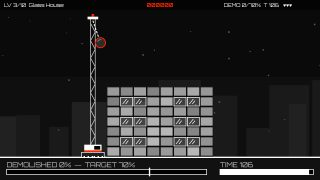
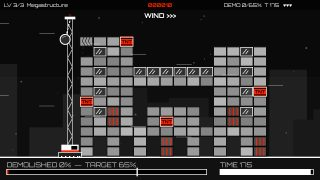
Give Wrecking Ball three levels and a controlled-demolition ending (ai3)
Twin Stacks, Arcade and Megastructure replace the ten sites; the finale keeps
the charges and gains both wind and tremors, with a slightly gentler target
and tremor rhythm. The seven unused structures are gone. Clearing it opens a
scene of two towers imploding into dust and coloured smoke. Node test, docs
and menu picture follow.

Claude-Session: https://claude.ai/code/session_016R86i3evNakTHXcnyVkEfD

diff --git a/internal/generator/templates/themes/brutalist/game.js b/internal/generator/templates/themes/brutalist/game.js
@@ -12,6 +12,10 @@
  * swing counts. Demolish the target share before time is up (every missed
  * deadline costs a life and buys a short overtime), and keep the cab out
  * from under what falls.
+ *
+ * Three sites: two plain concrete stacks to learn the swing, an arcade of
+ * lintels with rebar and glass, and the megastructure finale with charges,
+ * wind and tremors.
  */
 (function () {
     'use strict';
@@ -39,20 +43,16 @@
     // Ball damage is (impact speed - minV) / HIT_SCALE + base; a landing does
     // (landing speed / FALL_SCALE) * fall.
     var HIT_SCALE = 200, FALL_SCALE = 600;
-    // Timers are roughly twice what a practised player needs on the early
-    // levels and more generous from level 4 on, where rebar and fuses make a
-    // sloppy swing cost real time: they should bind for a newcomer, not
-    // for someone who needs three tries at a rebar stub. Running out costs
-    // a life and buys OVERTIME seconds, so a slow first attempt is not
-    // thrown away at once, and doing nothing still loses: the last life
-    // goes two overtimes after the deadline.
-    // tremor is the pause between two tremors in seconds, [min, max]: the
-    // megastructure shakes more often than the level that introduces them.
+    // Timers are roughly twice what a practised player needs, and more
+    // generous where rebar and fuses make a sloppy swing cost real time:
+    // they should bind for a newcomer, not for someone who needs three tries
+    // at a rebar stub. Running out costs a life and buys OVERTIME seconds, so
+    // a slow first attempt is not thrown away at once, and doing nothing
+    // still loses: the last life goes two overtimes after the deadline.
+    // tremor is the pause between two tremors in seconds, [min, max].
     var LEVELS = [
-        { time: 100, target: 0.6 }, { time: 100, target: 0.7 }, { time: 110, target: 0.7 },
-        { time: 150, target: 0.6 }, { time: 150, target: 0.65 }, { time: 170, target: 0.65 },
-        { time: 155, target: 0.6 }, { time: 160, target: 0.65, wind: true },
-        { time: 170, target: 0.65, tremor: [10, 13] }, { time: 180, target: 0.7, wind: true, tremor: [8, 11] }
+        { time: 100, target: 0.6 }, { time: 150, target: 0.65 },
+        { time: 180, target: 0.65, wind: true, tremor: [10, 13] }
     ];
     // A tremor announces itself TREMOR_WARN seconds ahead; the piece it
     // aims at the cab is lobbed higher (AIMED_VY) than the stray ones
@@ -72,26 +72,7 @@
         for (var r = r0; r < r0 + h; r++) for (var c = c0; c < c0 + w; c++) g[r][c] = kind;
     }
 
-    function buildWall(g) { fill(g, 9, 0, 5, 3, CONC); fill(g, 16, 0, 2, 2, CONC); }
-
     function buildStacks(g) { fill(g, 7, 0, 2, 7, CONC); fill(g, 11, 0, 1, 3, CONC); fill(g, 14, 0, 3, 8, CONC); }
-
-    // Concrete frame with glass infill on every other floor.
-    function buildGlassHouse(g) {
-        for (var r = 0; r < 7; r++) {
-            for (var c = 8; c < 16; c++) {
-                var pillar = c === 8 || c === 11 || c === 12 || c === 15;
-                g[r][c] = (r % 2 === 1 && !pillar) ? GLASS : CONC;
-            }
-        }
-    }
-
-    // The rebar stub in the middle is a wall the crane cannot pass: break
-    // it with a full swing, or work on the far half over its top.
-    function buildRebarCore(g) {
-        fill(g, 5, 0, 2, 4, CONC);
-        fill(g, 10, 0, 7, 7, CONC); fill(g, 13, 0, 1, 2, REBAR);
-    }
 
     // Pillars with doorways between them: the slab above only holds while
     // both of its ends are still standing.
@@ -100,46 +81,6 @@
         fill(g, 5, 2, 15, 1, CONC);
         for (c = 5; c <= 19; c++) fill(g, c, 3, 1, 2, (c - 5) % 2 === 1 ? GLASS : CONC);
         fill(g, 5, 5, 15, 1, CONC); fill(g, 9, 6, 7, 2, CONC); fill(g, 15, 6, 1, 2, REBAR);
-    }
-
-    // Rebar footings make the usual trick (take out the ground floor)
-    // useless; the charges on the faces are the way in.
-    function buildShortFuse(g) {
-        fill(g, 5, 0, 4, 8, CONC); fill(g, 5, 0, 4, 1, REBAR);
-        g[2][5] = CHARGE; g[5][8] = CHARGE;
-        fill(g, 13, 0, 6, 10, CONC); fill(g, 13, 0, 6, 1, REBAR);
-        fill(g, 13, 1, 1, 2, REBAR); fill(g, 18, 1, 1, 2, REBAR);
-        g[3][13] = CHARGE; g[6][18] = CHARGE; g[9][15] = CHARGE;
-    }
-
-    function buildSilos(g) {
-        [[5, 11], [11, 10], [17, 11]].forEach(function (t) {
-            fill(g, t[0], 0, 3, t[1], CONC);
-            fill(g, t[0], 5, 3, 1, REBAR);
-            fill(g, t[0], t[1] - 1, 3, 1, GLASS);
-        });
-        g[7][5] = CHARGE; g[2][11] = CHARGE; g[4][17] = CHARGE;
-    }
-
-    function buildZiggurat(g) {
-        for (var r = 0; r < 7; r++) {
-            for (var c = 6 + r; c <= 19 - r; c++) {
-                var edge = c === 6 + r || c === 19 - r, core = (c === 12 || c === 13) && r < 2;
-                g[r][c] = core ? REBAR : (r % 2 === 1 && edge ? GLASS : CONC);
-            }
-        }
-        g[2][8] = CHARGE; g[4][15] = CHARGE;
-    }
-
-    // A slab block riddled with window holes, with a rebar stub in the
-    // middle and a rebar end wall.
-    function buildCondemned(g) {
-        fill(g, 6, 0, 14, 10, CONC);
-        fill(g, 12, 0, 2, 2, REBAR); fill(g, 19, 0, 1, 5, REBAR);
-        for (var r = 1; r < 10; r += 2) {
-            for (var c = 7; c < 19; c += 3) g[r][c] = (r === 3 || r === 7) ? GLASS : null;
-        }
-        g[2][6] = CHARGE; g[5][11] = CHARGE; g[9][9] = CHARGE;
     }
 
     // Podium on pillars, two towers with rebar in their cores and a glazed
@@ -156,8 +97,7 @@
         g[5][6] = CHARGE; g[6][19] = CHARGE; g[3][12] = CHARGE; g[11][9] = CHARGE;
     }
 
-    var BUILD = [buildWall, buildStacks, buildGlassHouse, buildRebarCore, buildArcade,
-        buildShortFuse, buildSilos, buildZiggurat, buildCondemned, buildMega];
+    var BUILD = [buildStacks, buildArcade, buildMega];
 
     function cellY(r) { return GROUND - (r + 1) * CH; }
 
@@ -671,7 +611,7 @@
     }
 
     // ------------------------------------------------------------------
-    // Hazards of the late levels
+    // Hazards of the finale
     // ------------------------------------------------------------------
 
     // Gusts push the ball sideways for a few seconds; a gust can ruin a
@@ -710,7 +650,7 @@
     // gets punished; the others land at random, but far enough from the cab
     // that there is room to drive out from under the first one.
     function quake(s) {
-        var tops = topBlocks(s), n = Math.min(tops.length, G.level >= 10 ? 3 : 2);
+        var tops = topBlocks(s), n = Math.min(tops.length, 2);
         G.shake(12, 0.5); G.sfx('boom');
         for (var i = 0; i < n; i++) {
             var b = tops.splice(Math.floor(G.rnd(0, tops.length)), 1)[0];
@@ -1015,6 +955,60 @@
         return 'DEMO ' + Math.floor(s.gone / s.total * 100) + '/' + Math.round(s.cfg.target * 100) + '%  T ' + Math.max(0, Math.ceil(s.time));
     }
 
+    // ------------------------------------------------------------------
+    // The ending: a controlled demolition, over and over
+    // ------------------------------------------------------------------
+
+    // Two towers flank the buttons. Each cycle they rise, their charges
+    // blink, the base blows and the floors drop into the ground one after
+    // another while dust and coloured smoke billow up. Everything follows
+    // from e.t, so the scene keeps no state.
+    var END_CYCLE = 7, END_RISE = 0.8, END_BLAST = 1.8, END_FLOORS = 10, END_BW = 24, END_BH = 20;
+    var END_TOWERS = [120, 840], END_PUFFS = ['#9a9a9a', RED, '#ffffff', '#ffd166', '#c8c8c8', RED];
+
+    function drawEndTower(ctx, x0, t) {
+        var built = Math.min(END_FLOORS, Math.floor(t / END_RISE * END_FLOORS)), fall = t - END_BLAST;
+        for (var r = 0; r < built; r++) {
+            // Floors let go from the bottom up, each a moment after the one below.
+            var ft = fall - r * 0.06, drop = ft > 0 ? 450 * ft * ft : 0, top = GROUND - (r + 1) * END_BH + drop;
+            if (top >= GROUND - 2) continue;
+            for (var c = 0; c < 4; c++) {
+                var g = 120 + ((r * 7 + c * 3) % 5) * 14;
+                ctx.fillStyle = 'rgb(' + g + ',' + g + ',' + g + ')';
+                ctx.fillRect(x0 - 2 * END_BW + c * END_BW, top, END_BW - 2, Math.min(END_BH - 2, GROUND - top));
+            }
+        }
+        // The charges on the ground floor blink before the blast.
+        if (t > END_RISE && t < END_BLAST && Math.floor(t * 8) % 2 === 0) {
+            ctx.fillStyle = RED;
+            ctx.fillRect(x0 - 2 * END_BW + 4, GROUND - END_BH + 4, 10, 10);
+            ctx.fillRect(x0 + END_BW + 6, GROUND - END_BH + 4, 10, 10);
+        }
+    }
+
+    function drawEndDust(ctx, x0, t, side) {
+        var age = t - END_BLAST;
+        if (age <= 0) return;
+        for (var i = 0; i < END_PUFFS.length; i++) {
+            var a = age - i * 0.12;
+            if (a <= 0) continue;
+            ctx.globalAlpha = Math.max(0, 0.4 * (1 - a / 3.6));
+            ctx.fillStyle = END_PUFFS[i];
+            ctx.beginPath();
+            ctx.arc(x0 + side * (i - 2.5) * 22 * (1 + a), GROUND - 20 - a * (30 + i * 12), 14 + a * 34, 0, Math.PI * 2);
+            ctx.fill();
+        }
+        ctx.globalAlpha = 1;
+    }
+
+    function drawEnding(e, ctx) {
+        var t = e.t % END_CYCLE;
+        END_TOWERS.forEach(function (x0, i) {
+            drawEndTower(ctx, x0, t);
+            drawEndDust(ctx, x0, t, i ? -1 : 1);
+        });
+    }
+
     G.register('brutalist', {
         title: 'WRECKING BALL',
         blurb: 'Swing the ball, knock out the support, bring the concrete down before time runs out.',
@@ -1026,8 +1020,13 @@
         ],
         // B does nothing in this game; the brake is the one action button.
         touch: { a: 'BRAKE', hide: ['b'] },
-        levelNames: ['Garden Wall', 'Twin Stacks', 'Glass House', 'Rebar Core', 'Arcade',
-            'Short Fuse', 'Silos', 'Crosswind', 'Aftershock', 'Megastructure'],
+        ending: {
+            title: 'SITE CLEARED',
+            text: 'Every tower down, right on schedule.',
+            colors: [RED, '#ffffff', '#ffd166', '#c8c8c8'],
+            draw: drawEnding
+        },
+        levelNames: ['Twin Stacks', 'Arcade', 'Megastructure'],
         colors: { bg: '#0a0a0a', fg: '#ffffff', accent: RED, dim: '#9a9a9a' },
         lives: 3,
         // A slow, heavy dorian stomp: sawtooth bass, a clanking off-beat

diff --git a/docs/games.md b/docs/games.md
@@ -551,9 +551,20 @@ and swings as a real pendulum (drive to build momentum, `↑ ↓` reel the chain
 in or out). Concrete towers are built from blocks with gravity: knock out
 support and what is above falls and breaks. Damage depends on impact speed;
 rebar blocks need a hard hit. Demolish the target percentage before the timer
-ends. Falling slabs that hit the cab cost a life. Levels: taller and wider
-structures, rebar cores, glass (bonus) floors, a second timer-fused charge
-block that explodes when hit, and at level 10 a megastructure. Heavy thuds,
+ends (a missed deadline costs a life and buys a short overtime). Falling
+slabs and debris that hit the cab cost a life. Levels:
+
+1. **Twin Stacks** — plain concrete stacks: learn to pump the swing, brake
+   to whip the ball and knock out the bottom row.
+2. **Arcade** — pillars carrying lintels (a slab holds only while both ends
+   stand), glass (bonus) floors and rebar that needs a fast hit.
+3. **Megastructure** — a podium, two towers with rebar cores, a glazed
+   skybridge and TNT charges that blow 1.6 s after they are struck (and set
+   off their neighbours), under side wind gusts and tremors that throw roof
+   blocks at the cab.
+
+The ending: two towers rise, their charges blink and they implode floor by
+floor into clouds of dust and coloured smoke (**SITE CLEARED**). Heavy thuds,
 dust particles, industrial dorian music.
 
 ### cathedral — Gargoyle (joust-style flapping combat)
